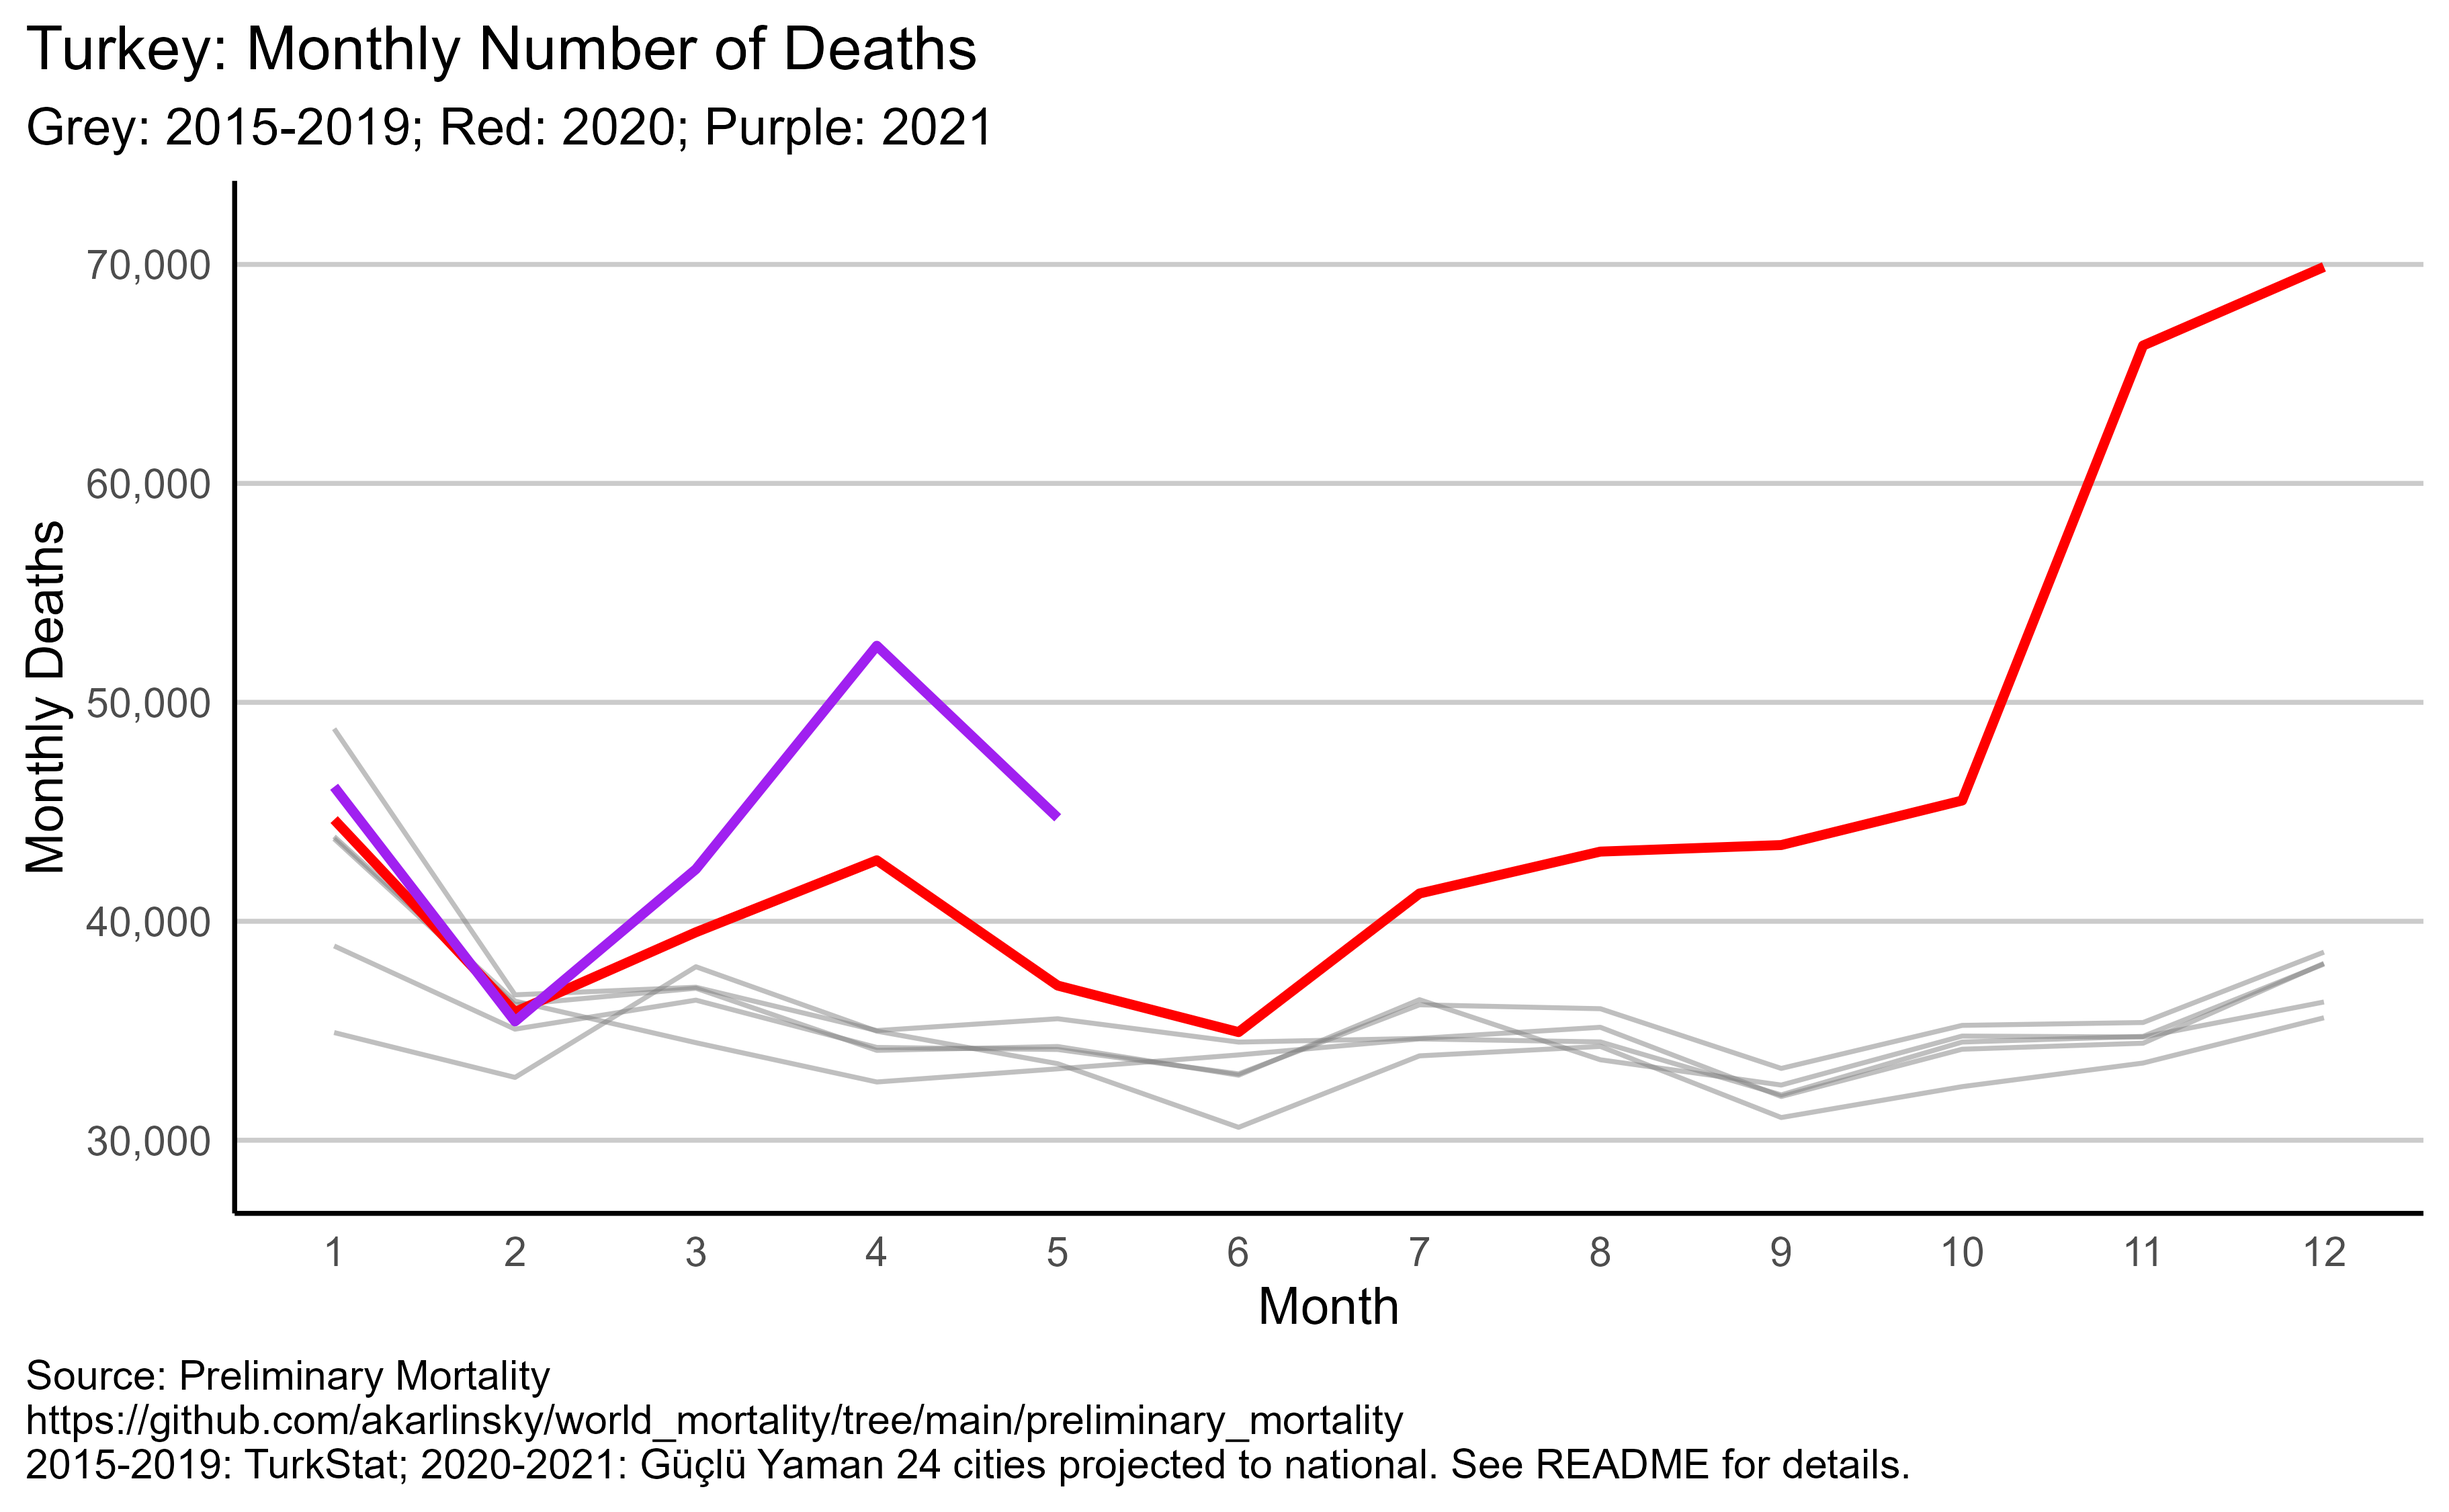
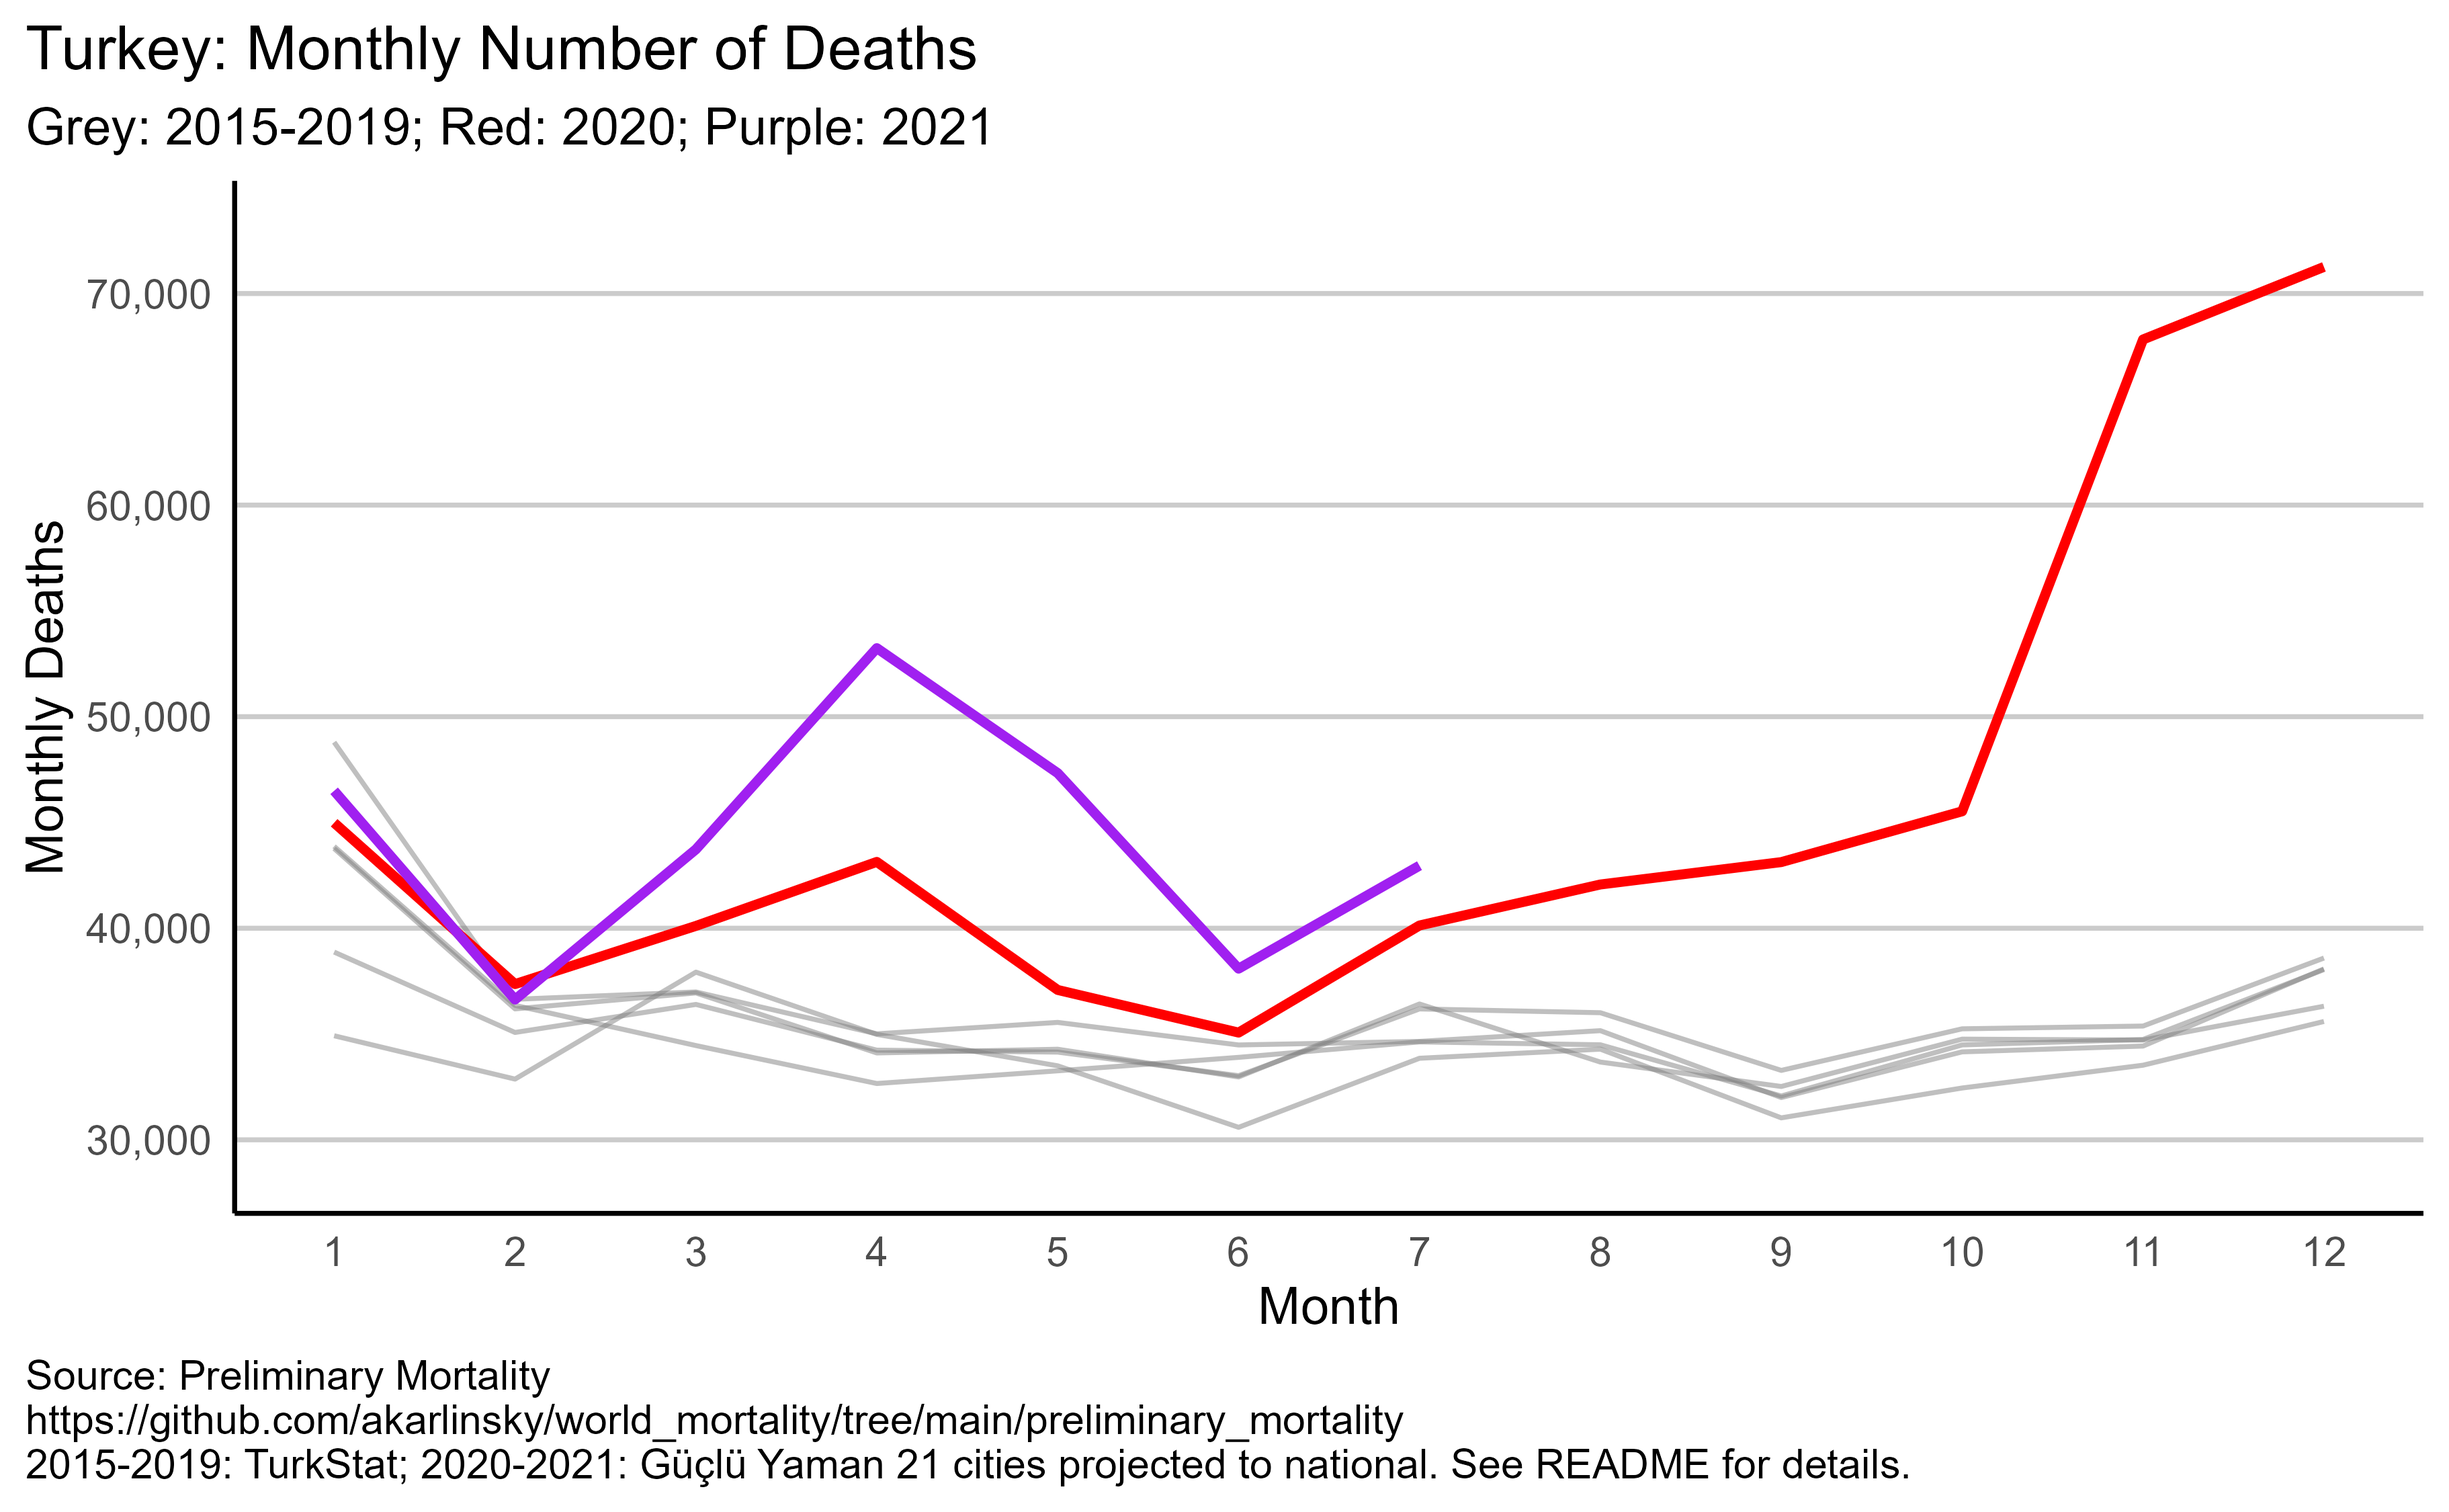
Preliminary Mortality Update
Costa Rica & Turkey updates.

diff --git a/preliminary_mortality/README.md b/preliminary_mortality/README.md
@@ -34,6 +34,9 @@ Monthly counts for Albania are published when available on [World Mortality](htt
 ### Bengaluru City, India (January 1st to July 31st)
 2019-2020: https://www.thehindu.com/news/national/karnataka/32-increase-in-mortality-rate-in-bengaluru-patil/article32509298.ece
 
+### Costa Rica (Half-Yearly)
+2015-2021: https://www.inec.cr/estadisticas-vitales
+Monthly data 2015 to 2020 is on [World Mortality](https://github.com/akarlinsky/world_mortality). Monthly data for 2021 is only expected by March 2022, while data for first half of 2021 already exists. 
 
 ### Tamil Nadu State, India
 Removed from Preliminary Mortality, now available on [Local Mortality](https://github.com/akarlinsky/world_mortality/tree/main/local_mortality) by month. 
@@ -57,7 +60,7 @@ Total monthly counts for Bosnia & Herzegovina are available at [World Mortality]
 ### Turkey (Monthly)
 2015 - 2019: [Turkey Statistical Institute Monthly Deaths](https://biruni.tuik.gov.tr/medas/?kn=114&locale=en)
 
-2020 - 2021: [Güçlü Yaman](https://twitter.com/GucluYaman)'s [collection of all-cause-mortality from 24 cities in Turkey](https://github.com/gucluyaman/Excess-mortality-in-Turkey) which cover about 50% of deaths in Turkey in ordinary times. Monthly total from these cities in 2020-2021 were projected to the entirety of Turkey using the monthly ratios between deaths in 2019 (ranges from 49.2% to 51.7%). 
+2020 - 2021: [Güçlü Yaman](https://twitter.com/GucluYaman)'s [collection of all-cause-mortality from 21 cities in Turkey](https://gucluyaman.com/excess-mortality-in-turkey/) which cover about 47% of deaths in Turkey in ordinary times. Monthly total from these cities in 2020-2021 were projected to the entirety of Turkey using the 47% ratio between deaths in 2019. 
 
 ### Kuwait (Annual)
 [Alahmad, AlMekhled, Odeh & Gasana (2021)](https://www.medrxiv.org/content/10.1101/2021.03.25.21254360v1.full.pdf), obtained from Kuwait
